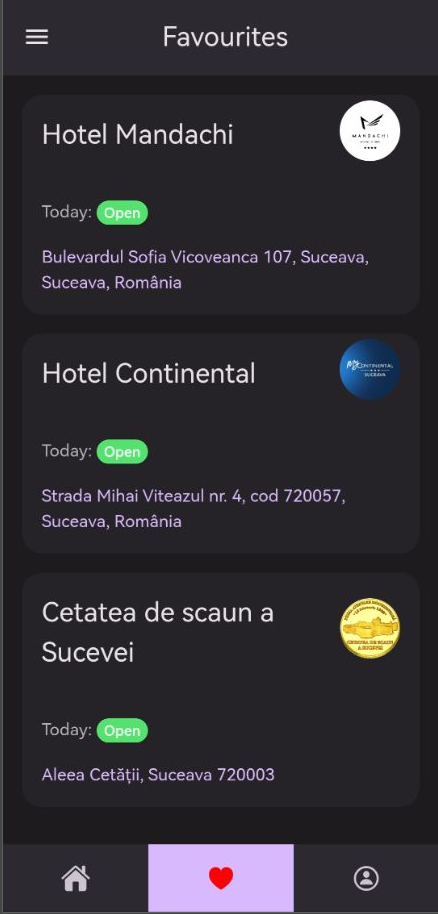
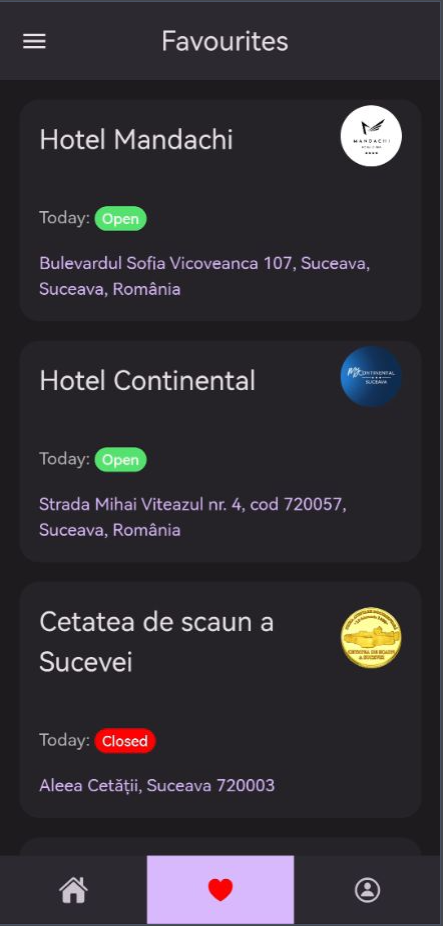
imp

diff --git a/www/js/app.js b/www/js/app.js
@@ -67,7 +67,7 @@ function isOpen(openingHour, closingHour, program = null, newLine = false) {
     const todayProgram = parsedProgram ? parsedProgram[currentDay] : null;
 
     if (todayProgram && todayProgram.includes('Closed')) {
-        return newLine == true ? '<br>Today: <span class="badge color-red">Closed</span>' : 'Today: <span class="badge color-red">Closed</span>';
+        return newLine == true ? '<br>Today: <span class="badge" style="background-color: red">Closed</span>' : 'Today: <span class="badge" style="background-color: red">Closed</span>';
     }
 
     const openingTime = new Date(now);
@@ -76,7 +76,7 @@ function isOpen(openingHour, closingHour, program = null, newLine = false) {
     const closingTime = new Date(now);
     closingTime.setHours(closeHour, closeMinute, 0, 0);
 
-    let isOpen = now >= openingTime && now <= closingTime ? 'Today: <span class="badge color-green">Open</span>' : 'Today: <span class="badge color-red">Closed</span>';
+    let isOpen = now >= openingTime && now <= closingTime ? 'Today: <span class="badge color-green">Open</span>' : 'Today: <span class="badge" style="background-color: red">Closed</span>';
 
     return newLine == true ? '<br>' + isOpen : isOpen;
 }
